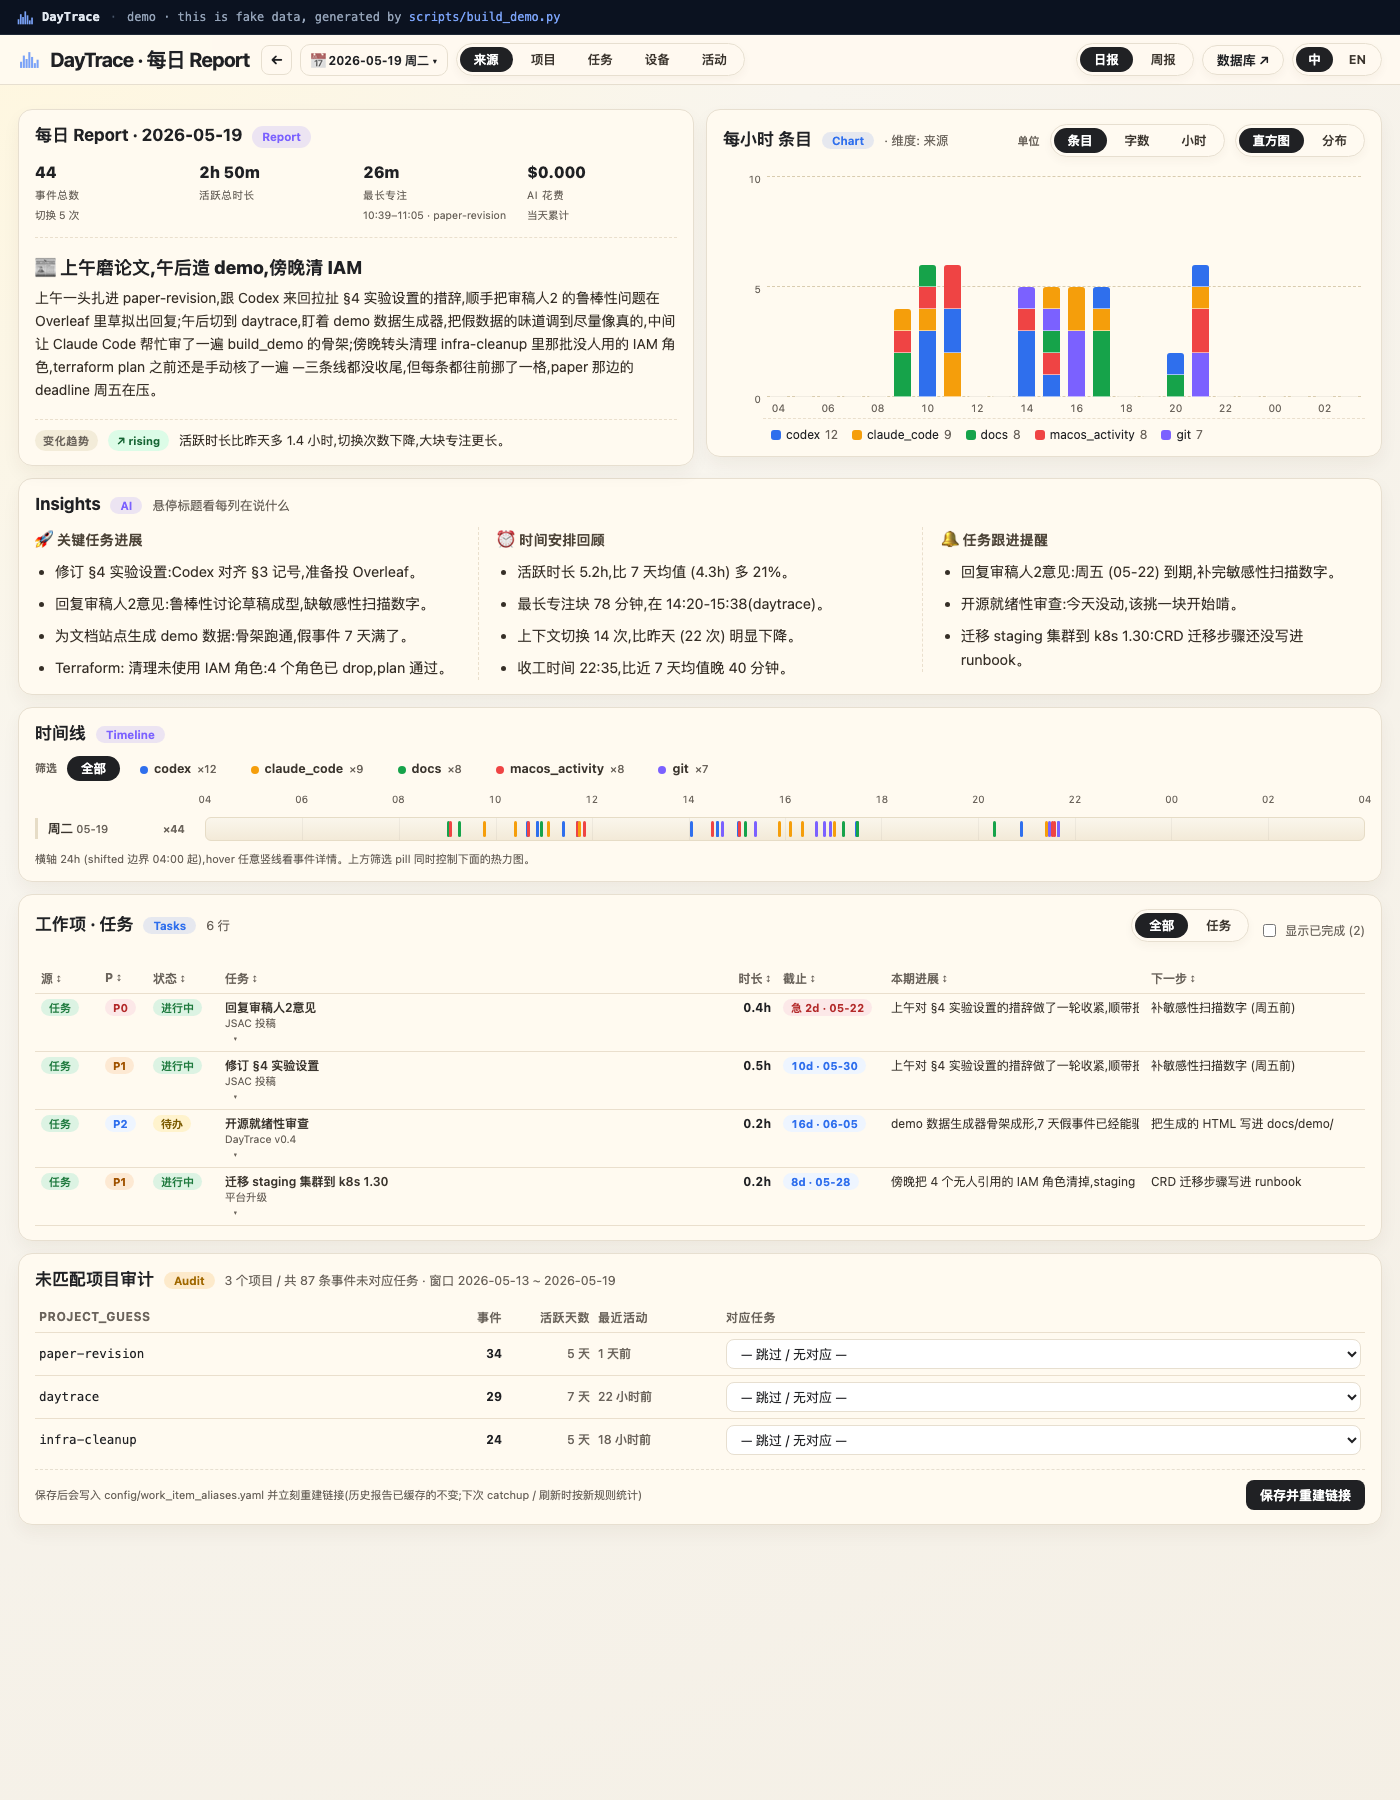
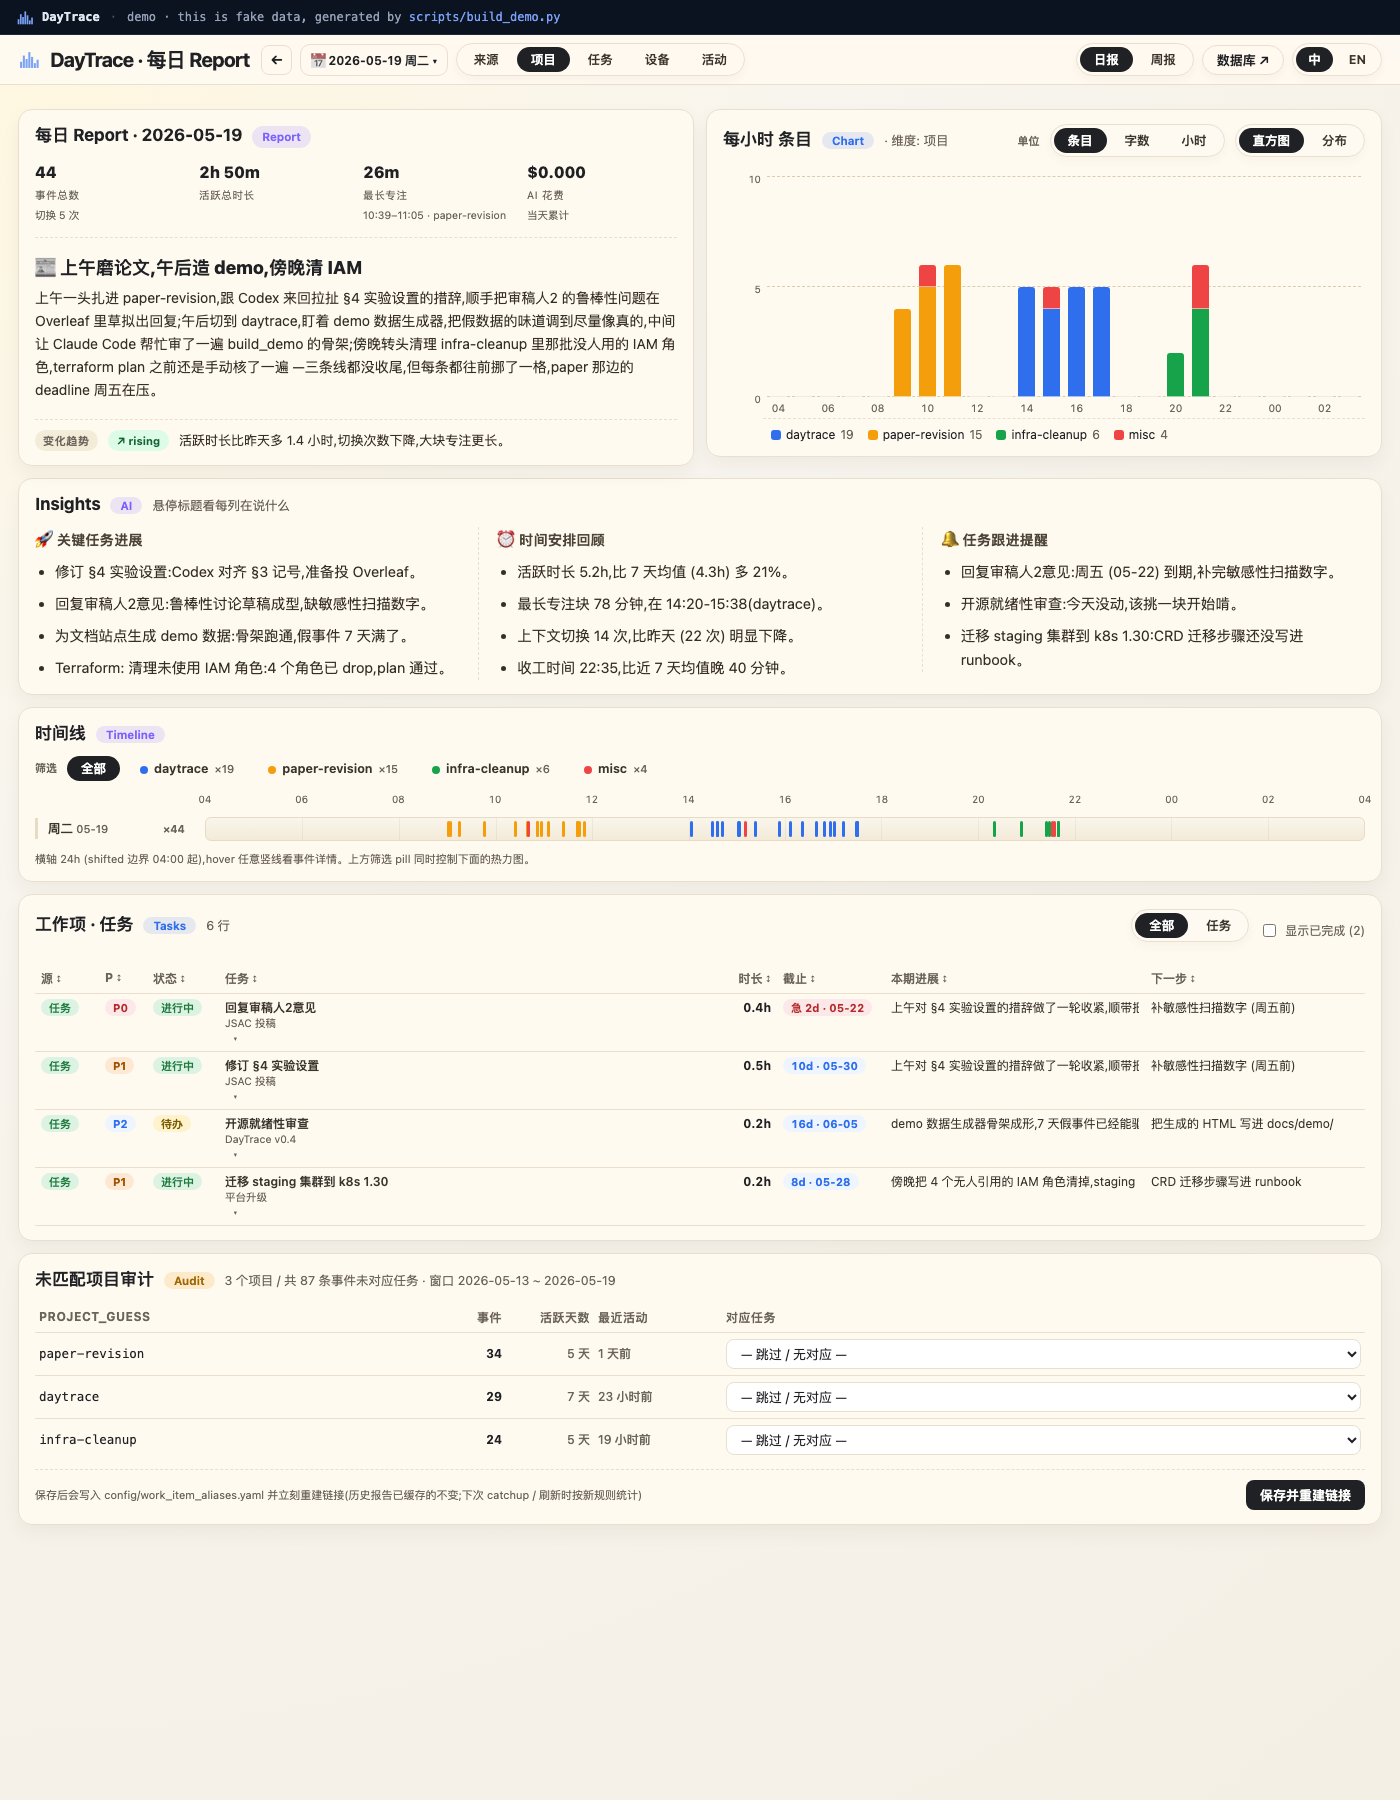
feat(dashboard): default dim to project, not source
When viewing /today or /weekly without a ?mode= query param, land on
the project view instead of the per-source breakdown. Project is what
the user actually cares about; source is one click away if needed.

Flipped four "if mode != 'source'" URL-omission checks (so canonical
URLs drop ?mode= when project, append it otherwise) and the default
fallback in both today_page() and weekly_page().

Rebuilt demo + refreshed README hero screenshots.

diff --git a/dashboard/server.py b/dashboard/server.py
@@ -1655,7 +1655,7 @@ def _mode_link(path: str, params: dict[str, str | None]) -> str:
 def today_page(db_path: Path, date: str | None, mode: str | None = None, unit: str | None = None, style: str | None = None):
     valid_modes = {dim_id for dim_id, _ in DIMENSIONS}
     if mode not in valid_modes:
-        mode = "source"
+        mode = "project"
     valid_units = {u for u, _ in UNITS}
     if unit not in valid_units:
         unit = "count"
@@ -1772,11 +1772,11 @@ def today_page(db_path: Path, date: str | None, mode: str | None = None, unit: s
         idx = dates_desc.index(date)
         if idx + 1 < len(dates_desc):
             prev_day = dates_desc[idx + 1]
-            href = _mode_link("/today", {"date": prev_day, "mode": mode if mode != "source" else None, "unit": unit if unit != "count" else None})
+            href = _mode_link("/today", {"date": prev_day, "mode": mode if mode != "project" else None, "unit": unit if unit != "count" else None})
             prev_link = f'<a class="hdr-nav-btn" title="前一天 {esc(prev_day)}" href="{esc(href)}">←</a>'
         if idx - 1 >= 0:
             next_day = dates_desc[idx - 1]
-            href = _mode_link("/today", {"date": next_day, "mode": mode if mode != "source" else None, "unit": unit if unit != "count" else None})
+            href = _mode_link("/today", {"date": next_day, "mode": mode if mode != "project" else None, "unit": unit if unit != "count" else None})
             next_link = f'<a class="hdr-nav-btn" title="后一天 {esc(next_day)}" href="{esc(href)}">→</a>'
     # Database button removed from the centered header — the right-rail
     # already has a Database pill (.page-db-btn). Keeping both gave the
@@ -1793,7 +1793,7 @@ def today_page(db_path: Path, date: str | None, mode: str | None = None, unit: s
     dim_pill_links = "".join(
         f'<a class="dim-tab{" active" if dim_id == mode else ""}" '
         f'data-param="mode" data-value="{dim_id}" '
-        f'href="{esc(_mode_link("/today", {"date": date, "mode": dim_id if dim_id != "source" else None, "unit": unit if unit != "count" else None}))}">'
+        f'href="{esc(_mode_link("/today", {"date": date, "mode": dim_id if dim_id != "project" else None, "unit": unit if unit != "count" else None}))}">'
         f'{label}</a>'
         for dim_id, label in _dimensions()
     )
@@ -1827,7 +1827,7 @@ def today_page(db_path: Path, date: str | None, mode: str | None = None, unit: s
     unit_pill_links = "".join(
         f'<a class="unit-tab{" active" if u_id == unit else ""}" '
         f'data-param="unit" data-value="{u_id}" '
-        f'href="{esc(_mode_link("/today", {"date": date, "mode": mode if mode != "source" else None, "unit": u_id if u_id != "count" else None}))}">'
+        f'href="{esc(_mode_link("/today", {"date": date, "mode": mode if mode != "project" else None, "unit": u_id if u_id != "count" else None}))}">'
         f'{label}</a>'
         for u_id, label in _units()
     )
@@ -2036,7 +2036,7 @@ def today_page(db_path: Path, date: str | None, mode: str | None = None, unit: s
 """
     # Header pattern: [←] [📅 picker] [→] [open db ↗] [dim pills]
     # — identical layout as weekly. "Open db" opens in a new tab.
-    cal_hidden = {"mode": mode if mode != "source" else None, "unit": unit if unit != "count" else None}
+    cal_hidden = {"mode": mode if mode != "project" else None, "unit": unit if unit != "count" else None}
     cal_hidden = {k: v for k, v in cal_hidden.items() if v}
     date_picker_html = calendar_control('/today', date, all_dates, hidden=cal_hidden, label_text="")
     header_controls = (
@@ -5868,7 +5868,7 @@ def weekly_page(
     if mode == "device_id":
         mode = "device"
     if mode not in valid_modes:
-        mode = "source"  # match daily's default for consistency
+        mode = "project"  # match daily's default for consistency
     if view not in valid_views:
         view = "swim"
     valid_top_views = {"chart", "dist"}
@@ -6438,7 +6438,7 @@ class Handler(BaseHTTPRequestHandler):
                 if date:
                     redirect_params["date"] = date
                 mode = qs.get("mode", [None])[0] or None
-                if mode and mode != "source":
+                if mode and mode != "project":
                     redirect_params["mode"] = mode
                 self.send_response(302)
                 self.send_header("Location", "/today" + (("?" + urlencode(redirect_params)) if redirect_params else ""))